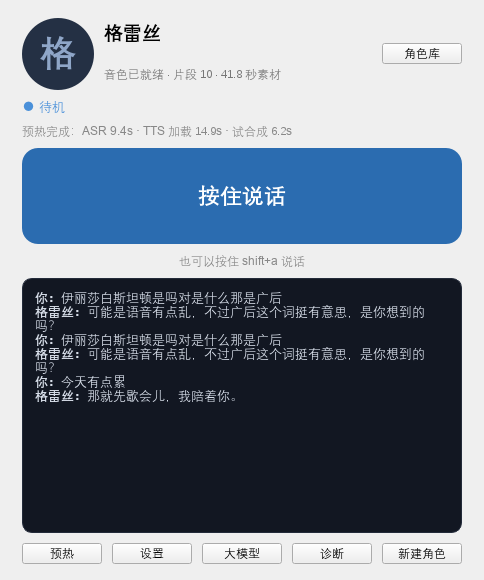
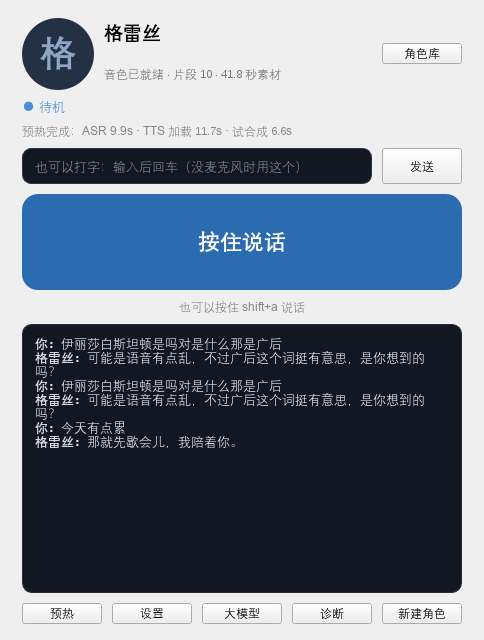
feat(ui): 主界面加文字输入，支持无麦克风运行
- main_window 在「按住说话」上方新增输入框 + 发送按钮：回车即 submit_text，
  跳过录音与 ASR，直接走 LLM→切句→TTS→播放，与语音同一条下游链路
- 没有可用角色时输入框与发送按钮一起置灰
- controller.submit_text：训练中拒绝、无角色提示、有输入即把状态切到 thinking
- 使用说明补充「没有麦克风怎么用」；安装器重建

验证（在 D:/情感陪伴器_v1 的打包运行时里）：
  warmup 27.3s → submit_text('用打字也能聊天吗')
  → reply「能的，打字也行。不过我更喜欢听你说话的声音。」
  → e2e 2514ms，音频 3.72s

diff --git a/app/ui/main_window.py b/app/ui/main_window.py
@@ -10,7 +10,8 @@ from pathlib import Path
 from PySide6.QtCore import QRectF, QSize, Qt, Signal
 from PySide6.QtGui import QColor, QFont, QPainter, QPixmap
 from PySide6.QtWidgets import (
-    QHBoxLayout, QLabel, QPushButton, QSizePolicy, QTextEdit, QVBoxLayout, QWidget,
+    QHBoxLayout, QLabel, QLineEdit, QPushButton, QSizePolicy, QTextEdit,
+    QVBoxLayout, QWidget,
 )
 
 STATUS = {
@@ -66,6 +67,7 @@ class MainWindow(QWidget):
     request_llm = Signal()
     request_new_character = Signal()
     request_warmup = Signal()
+    text_submitted = Signal(str)
     talk_pressed = Signal()
     talk_released = Signal()
 
@@ -110,6 +112,22 @@ class MainWindow(QWidget):
         self.warm_hint.setStyleSheet("color:#888;font-size:12px;")
         self.warm_hint.setWordWrap(True)
         root.addWidget(self.warm_hint)
+
+        # 文字输入：没有麦克风时也能完整跑通链路
+        row_in = QHBoxLayout()
+        self.input = QLineEdit()
+        self.input.setPlaceholderText("也可以打字：输入后回车（没麦克风时用这个）")
+        self.input.setMinimumHeight(36)
+        self.input.setStyleSheet(
+            "QLineEdit{background:#121722;border:1px solid #2a3444;border-radius:9px;"
+            "color:#e6edf7;padding:6px 10px;font-size:13px;}")
+        self.input.returnPressed.connect(self._submit_text)
+        self.btn_send = QPushButton("发送")
+        self.btn_send.setMinimumHeight(36)
+        self.btn_send.clicked.connect(self._submit_text)
+        row_in.addWidget(self.input, 1)
+        row_in.addWidget(self.btn_send)
+        root.addLayout(row_in)
 
         self.talk = QPushButton("按住说话")
         self.talk.setMinimumHeight(96)
@@ -162,6 +180,8 @@ class MainWindow(QWidget):
             self.sub.setText("还没有角色，先新建一个")
             self.avatar.setPixmap(_avatar_pixmap(None))
             self.talk.setEnabled(False)
+            self.input.setEnabled(False)
+            self.btn_send.setEnabled(False)
             self.transcript.clear()
             return
         self.name.setText(character.name)
@@ -172,6 +192,8 @@ class MainWindow(QWidget):
         av = self.store.avatar_path(character.id) if character else None
         self.avatar.setPixmap(_avatar_pixmap(av, initial=character.name))
         self.talk.setEnabled(character.status == "ready")
+        self.input.setEnabled(character.status == "ready")
+        self.btn_send.setEnabled(character.status == "ready")
         self._load_history(character)
 
     def _load_history(self, character) -> None:
@@ -224,6 +246,13 @@ class MainWindow(QWidget):
 
     def _on_release(self) -> None:
         self.talk_released.emit()
+
+    def _submit_text(self) -> None:
+        text = self.input.text().strip()
+        if not text:
+            return
+        self.input.clear()
+        self.text_submitted.emit(text)
 
     def closeEvent(self, event):  # noqa: N802
         # 关掉只是收进托盘

diff --git a/app/main.py b/app/main.py
@@ -282,6 +282,7 @@ class MainController(QObject):
             self._main.request_diagnostics.connect(self.open_diagnostics)
             self._main.request_new_character.connect(self.open_wizard)
             self._main.request_warmup.connect(self.start_warmup)
+            self._main.text_submitted.connect(self.submit_text)
             self._main.talk_pressed.connect(self._on_press)
             self._main.talk_released.connect(self._on_release)
             self.bridge.stateChanged.connect(self._main.set_state)
@@ -293,6 +294,22 @@ class MainController(QObject):
         self._main.raise_()
         self._main.activateWindow()
         self.log.info("主界面已打开：%s", self._main.windowTitle())
+
+    def submit_text(self, text: str) -> None:
+        """主界面文字输入：跳过录音与 ASR，直接走 LLM→TTS→播放。"""
+        text = (text or "").strip()
+        if not text:
+            return
+        if self.training:
+            self.tray.notify("训练进行中", "等训练结束再说话")
+            return
+        pipe = self._ensure_pipeline()
+        if pipe is None:
+            self.tray.notify("还没有角色", "先新建一个角色")
+            return
+        if self._main is not None:
+            self._main.set_state("thinking", "文字输入")
+        pipe.submit_text(text)
 
     def start_warmup(self) -> None:
         """手动预热：把 ASR / TTS 提前加载进显存。"""

diff --git a/docs/stage4-report.md b/docs/stage4-report.md
@@ -125,6 +125,8 @@
 
 - 头像（无图时用名字首字）、角色名、音色/素材信息
 - 状态灯：`待机 / 听着 / 识别中 / 思考中 / 说话中`，与托盘同色
+- **文字输入框 + 发送**（在说话按钮上方）：输入回车 = `pipeline.submit_text()`，
+  跳过录音与 ASR，直接走 LLM→切句→TTS→播放。**没有麦克风的机器靠它跑通整条链路**
 - **按住说话按钮**（鼠标按下 = `pipeline.press()`，松开 = `release()`，与热键同一条路径）
 - 最近一轮对话（读 `chat.jsonl`），出错红字提示
 - **预热按钮**：手动跑 `pipeline.warmup()`，显示 `ASR x.xs · TTS 加载 y.yy s · 试合成 z.zz s`
